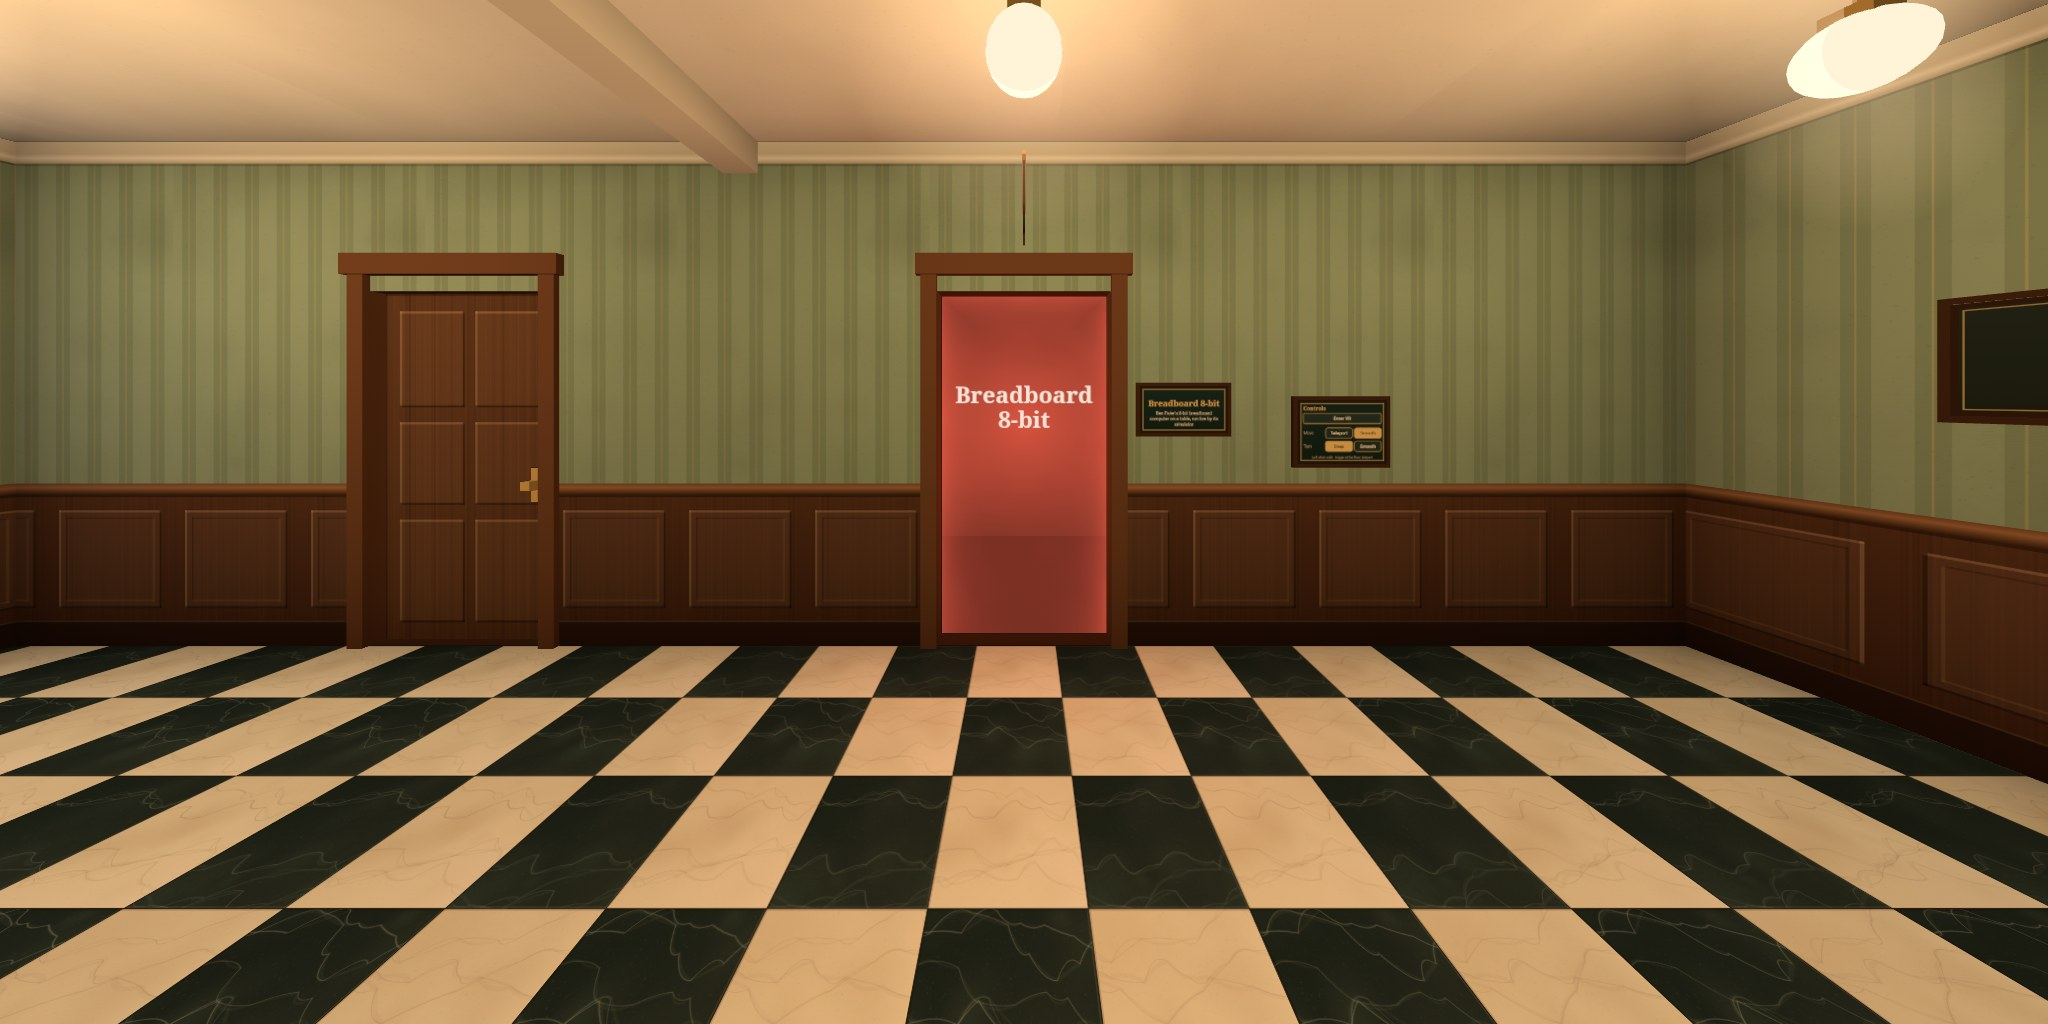
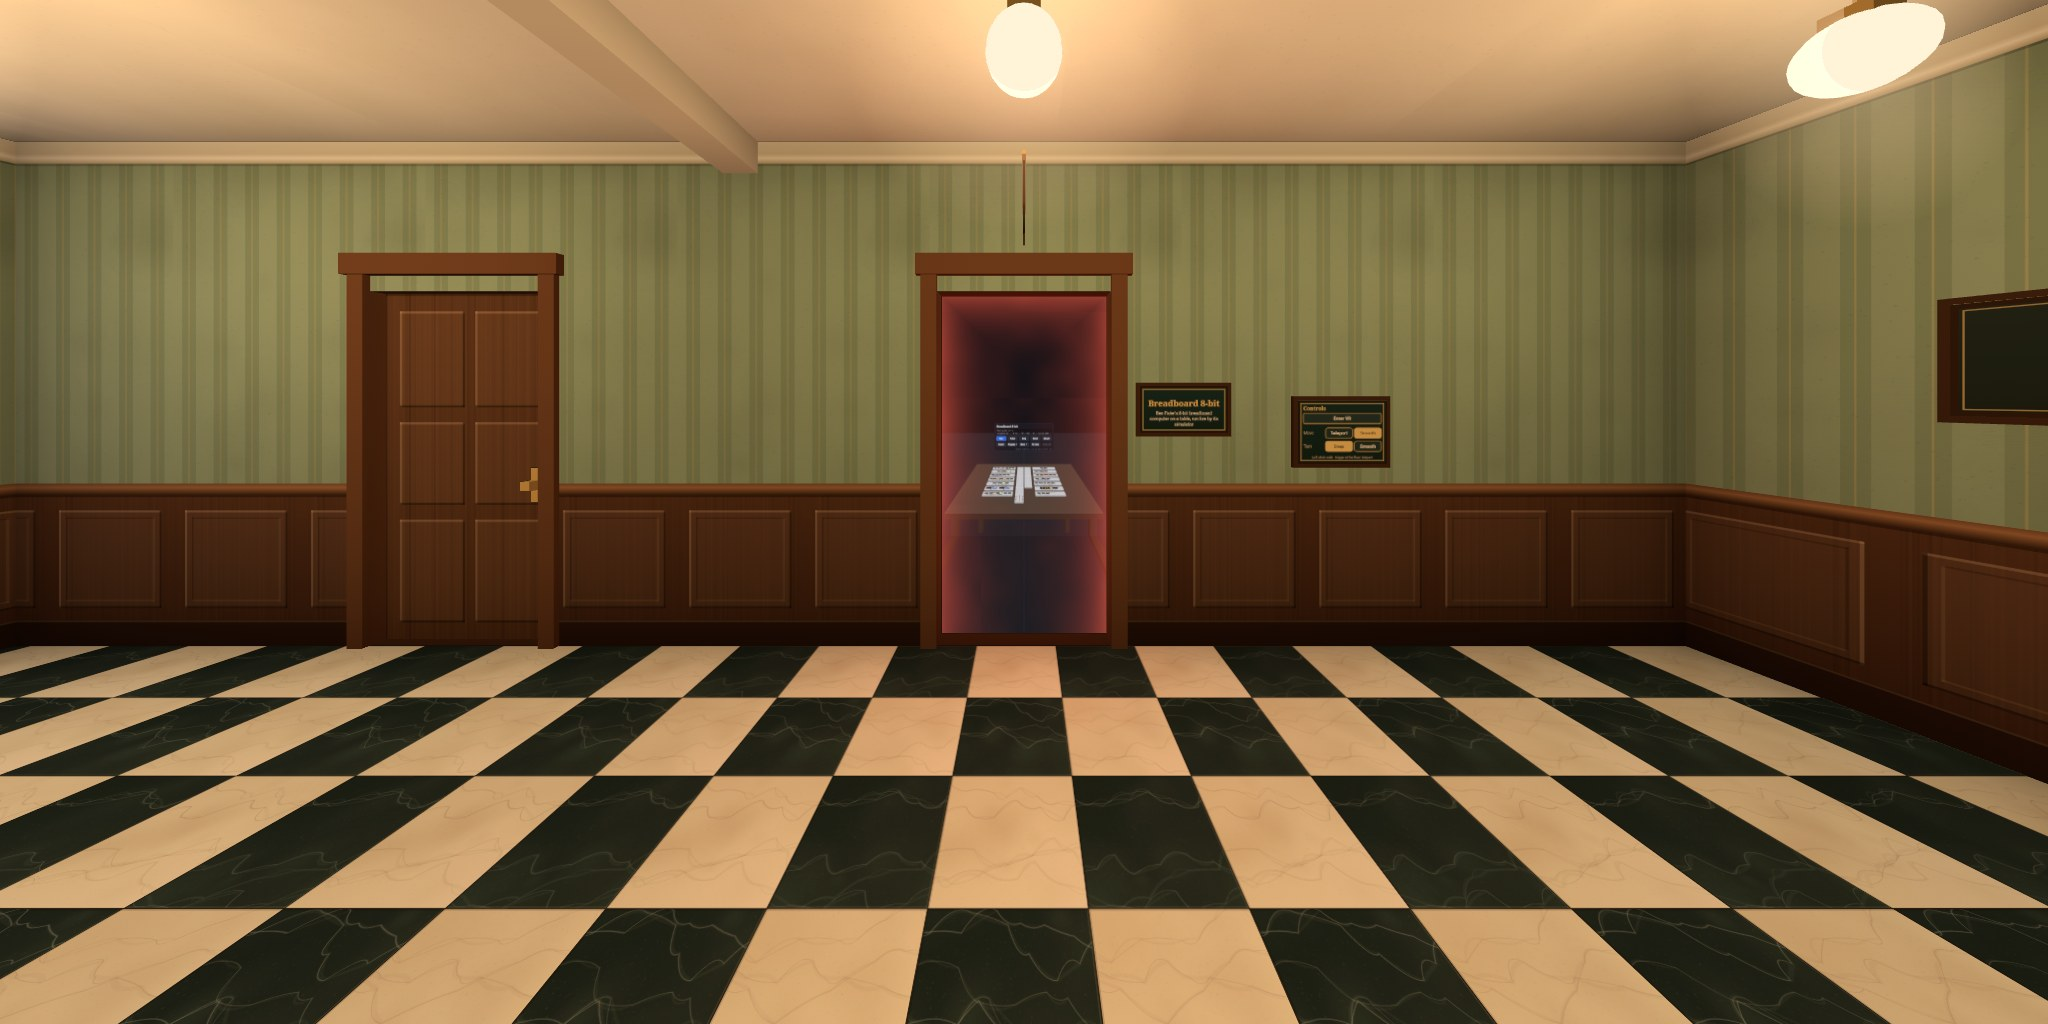
Breadboard 8-bit's doorway shows its room: the table and the computer
The door's preview is https://ariamokr.github.io/breadboard/hallway-preview.jpg
(breadboard 765fdc6, its `npm run preview-image`), rendered for this
doorway's PICTURE: 2048 x 1024, eye 1.6 m, horizon 0.56, readable
cross-origin. vrlbry's door view looks across the hall at it, so it is
rendered again; breadboard's own view and views.json are unchanged.

Changed region(s): [[0.4375, 0.2812, 0.5625, 0.625]]

diff --git a/public/js/environments.js b/public/js/environments.js
@@ -28,7 +28,9 @@ export const ENVIRONMENTS = [
     sign: 'Workshop',
     // Its VR view; the site's front page (…/breadboard/) is the simulator on a screen.
     url: 'https://ariamokr.github.io/breadboard/vr.html',
-    // No preview yet: the doorway shows the title. The red of its LEDs, softened.
+    // Rendered by breadboard's `npm run preview-image` for this doorway (hall.js's PICTURE).
+    preview: 'https://ariamokr.github.io/breadboard/hallway-preview.jpg',
+    // The red of its LEDs, softened.
     color: '#d8543f',
   },
 ];
